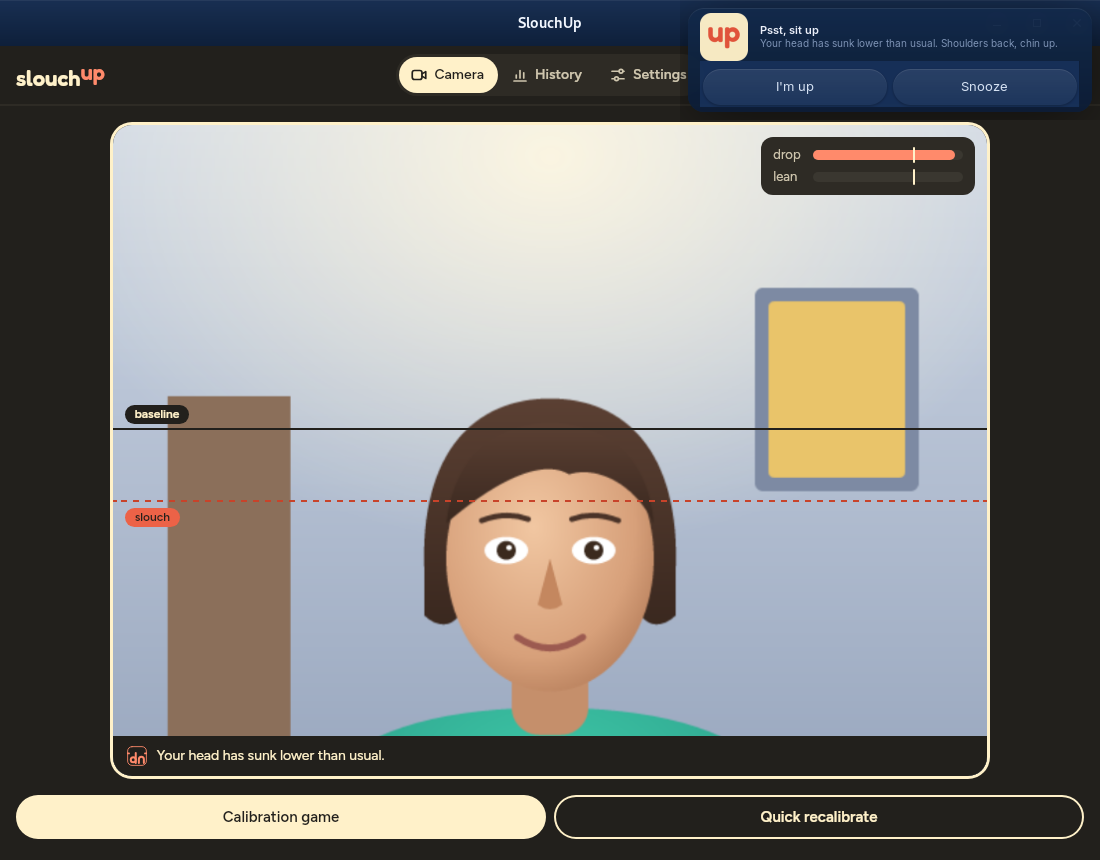
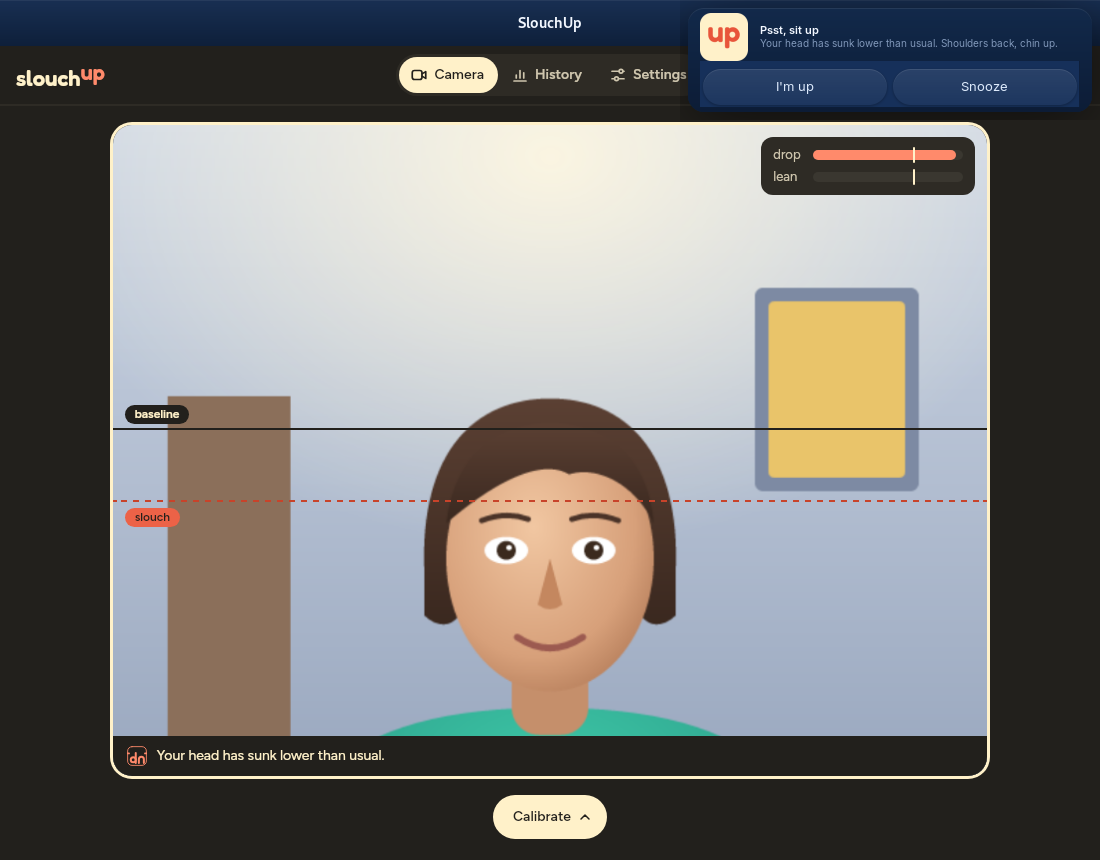
Calibration buttons merged into one Calibrate
Two calibrate buttons took a row under the picture without saying how they differed.

- Calibrate, in a bar under the picture, opens Quick or Guided, full screen, each saying when to use it
- C opens it too; it's hidden while paused, since calibrating needs the camera

Changed region(s): [[0.0, 0.907, 0.5564, 0.9977], [0.68, 0.9372, 0.8036, 0.9674]]

diff --git a/crates/slouch-app/src/style.css b/crates/slouch-app/src/style.css
@@ -108,7 +108,7 @@ button:focus-visible { outline: 3px solid var(--sky); outline-offset: 2px; }
 }
 
 .stage {
-  /* Height the window keeps for its header, its padding, the buttons and the frame's border. */
+  /* Height the window keeps for its header, its padding, the controls and the frame's border. */
   --chrome: calc(var(--header) + 3 * var(--space-4) + 44px + 6px);
   position: relative;
   flex: none;
@@ -197,7 +197,63 @@ button:focus-visible { outline: 3px solid var(--sky); outline-offset: 2px; }
 }
 
 .buttons { display: flex; gap: var(--space-2); }
-.camera-page .button { flex: 1; }
+
+/* The bar of controls under the picture, as video calls have it. */
+.controls { display: flex; flex: none; justify-content: center; align-items: center; gap: var(--space-2); min-height: 44px; }
+.control {
+  display: inline-flex;
+  align-items: center;
+  gap: 6px;
+  min-height: 44px;
+  padding: 0 18px;
+  border: 2px solid var(--track);
+  border-radius: var(--radius-pill);
+  background: var(--surface-raised);
+  color: var(--text);
+  font: 600 14px/1 var(--font-body);
+  cursor: pointer;
+}
+.control:hover { border-color: var(--text-muted); }
+.control.primary { border-color: var(--butter); background: var(--butter); color: var(--ink); }
+.control.primary:hover { border-color: var(--text-muted); background: var(--text-muted); }
+.control .icon, .control .icon svg { width: 16px; height: 16px; }
+.caret, .caret svg { color: var(--text-muted); }
+.backdrop { position: fixed; inset: 0; z-index: 10; }
+
+/* Calibrate, opening a choice of how. */
+.calibrate { position: relative; }
+.calibrate-button { padding-right: 12px; }
+.calibrate-button .caret, .calibrate-button .caret svg { color: inherit; }
+.calibrate-menu {
+  position: absolute;
+  right: 0;
+  bottom: calc(100% + var(--space-2));
+  z-index: 11;
+  display: flex;
+  flex-direction: column;
+  gap: var(--space-1);
+  width: 300px;
+  padding: var(--space-2);
+  border: 2px solid var(--track);
+  border-radius: var(--radius-md);
+  background: var(--surface-raised);
+  box-shadow: 0 12px 32px rgb(0 0 0 / 0.45);
+}
+.calibrate-option {
+  display: flex;
+  flex-direction: column;
+  gap: 2px;
+  padding: 10px 12px;
+  border: 0;
+  border-radius: var(--radius-sm);
+  background: transparent;
+  color: var(--text);
+  text-align: left;
+  cursor: pointer;
+}
+.calibrate-option:hover, .calibrate-option:focus-visible { background: var(--track); }
+.calibrate-name { font: 600 15px/1.3 var(--font-body); }
+.calibrate-detail { font-size: 13px; line-height: 1.4; color: var(--text-muted); }
 
 @media (max-width: 600px) {
   .view-label { display: none; }

diff --git a/crates/slouch-app/src/ui.rs b/crates/slouch-app/src/ui.rs
@@ -329,6 +329,37 @@ fn panel_theme() -> Theme {
 /// How often to check whether the panel has changed theme, say for night mode.
 const PANEL_CHECK: Duration = Duration::from_secs(2);
 
+/// The window's keyboard shortcut: C opens the Calibrate choice. Sent on as a name, and left
+/// alone while typing or with a modifier, so it doesn't take over other keys.
+const SHORTCUTS: &str = r#"
+document.addEventListener("keydown", (event) => {
+    if (event.ctrlKey || event.metaKey || event.altKey || event.repeat) return;
+    if (event.target.closest("input, select, textarea")) return;
+    if (event.key.toLowerCase() === "c") {
+        event.preventDefault();
+        dioxus.send("calibrate");
+    }
+});
+await new Promise(() => {});
+"#;
+
+/// Move focus between the elements matching `selector` for an arrow, Home or End `key`, as a
+/// list does, and say whether it was one of those.
+fn move_focus(selector: &str, key: &Key) -> bool {
+    let step = match key {
+        Key::ArrowDown | Key::ArrowRight => "(i + 1) % all.length",
+        Key::ArrowUp | Key::ArrowLeft => "(i - 1 + all.length) % all.length",
+        Key::Home => "0",
+        Key::End => "all.length - 1",
+        _ => return false,
+    };
+    document::eval(&format!(
+        "const all = [...document.querySelectorAll('{selector}')]; \
+         const i = all.indexOf(document.activeElement); all[{step}]?.focus();"
+    ));
+    true
+}
+
 /// `say`, but only the first time it's called, so a notice comes once a run.
 fn once(say: impl Fn() + 'static) -> std::rc::Rc<dyn Fn()> {
     let said = std::cell::Cell::new(false);
@@ -396,6 +427,16 @@ pub fn App() -> Element {
         }
     });
     let mut page = use_signal(|| bridge.start_on);
+    let mut calibrate_open = use_signal(|| false);
+    use_future(move || async move {
+        let mut keys = document::eval(SHORTCUTS);
+        while let Ok(key) = keys.recv::<String>().await {
+            if key == "calibrate" && !paused() {
+                page.set(Page::Camera);
+                calibrate_open.set(true);
+            }
+        }
+    });
     let open_page = use_callback(move |to: Page| {
         page.set(to);
         show_main_window();
@@ -613,7 +654,7 @@ pub fn App() -> Element {
             }
             main { class: "view",
                 match shown {
-                    Page::Camera => rsx! { CameraPage { current: view(), start_game } },
+                    Page::Camera => rsx! { CameraPage { current: view(), paused: paused(), start_game, calibrate_open } },
                     Page::History => rsx! { HistoryPage {} },
                     Page::Settings => rsx! { SettingsPage { initial: view.peek().settings } },
                 }
@@ -622,9 +663,15 @@ pub fn App() -> Element {
     }
 }
 
-/// The live picture with its lines and readings, and the ways to calibrate.
+/// The live picture with its lines and readings, and a bar under it, as video calls have, with
+/// Calibrate.
 #[component]
-fn CameraPage(current: View, start_game: Callback<()>) -> Element {
+fn CameraPage(
+    current: View,
+    paused: bool,
+    start_game: Callback<()>,
+    calibrate_open: Signal<bool>,
+) -> Element {
     let bridge = use_context::<Bridge>();
     let (frame_width, frame_height) = current.frame_size;
     let down = |y: f32| y / frame_height * 100.0;
@@ -655,13 +702,96 @@ fn CameraPage(current: View, start_game: Callback<()>) -> Element {
                     }
                 }
             }
-            div { class: "buttons",
-                button { class: "button primary", onclick: move |_| start_game(()), "Calibration game" }
-                button { class: "button", onclick: move |_| bridge.send(Command::Recalibrate), "Quick recalibrate" }
+            div { class: "controls",
+                if !paused {
+                    CalibrateMenu {
+                        open: calibrate_open,
+                        on_quick: move |()| bridge.send(Command::Recalibrate),
+                        on_guided: start_game,
+                    }
+                }
             }
         }
     }
 }
+
+/// One Calibrate button, opening the choice between a quick one and the guided, full-screen one.
+#[component]
+fn CalibrateMenu(open: Signal<bool>, on_quick: Callback<()>, on_guided: Callback<()>) -> Element {
+    let mut button = use_signal(|| None::<std::rc::Rc<MountedData>>);
+    let mut close = move || {
+        open.set(false);
+        if let Some(button) = button() {
+            spawn(async move {
+                let _ = button.set_focus(true).await;
+            });
+        }
+    };
+    let choices = [
+        (
+            "Quick",
+            "Sit nicely for 3 seconds. Handy after you move your laptop or chair.",
+            on_quick,
+        ),
+        (
+            "Guided, full screen",
+            "Step by step, about 30 seconds. Best the first time, or at a new desk.",
+            on_guided,
+        ),
+    ];
+    rsx! {
+        div { class: "calibrate",
+            button {
+                class: "control primary calibrate-button",
+                title: "Calibrate (C)",
+                "aria-haspopup": "menu",
+                "aria-expanded": "{open()}",
+                onmounted: move |event| button.set(Some(event.data())),
+                onclick: move |_| open.toggle(),
+                "Calibrate"
+                span { class: "icon caret", dangerous_inner_html: CARET_UP }
+            }
+            if open() {
+                div { class: "backdrop", onclick: move |_| close() }
+                div {
+                    class: "calibrate-menu",
+                    role: "menu",
+                    "aria-label": "Calibrate",
+                    onkeydown: move |event| match event.key() {
+                        Key::Escape => {
+                            event.prevent_default();
+                            close();
+                        }
+                        key => {
+                            if move_focus(".calibrate-option", &key) {
+                                event.prevent_default();
+                            }
+                        }
+                    },
+                    for (index, (name, detail, choose)) in choices.into_iter().enumerate() {
+                        button {
+                            class: "calibrate-option",
+                            role: "menuitem",
+                            onmounted: move |event| async move {
+                                if index == 0 {
+                                    let _ = event.data().set_focus(true).await;
+                                }
+                            },
+                            onclick: move |_| {
+                                close();
+                                choose(());
+                            },
+                            span { class: "calibrate-name", "{name}" }
+                            span { class: "calibrate-detail", "{detail}" }
+                        }
+                    }
+                }
+            }
+        }
+    }
+}
+
+const CARET_UP: &str = r#"<svg viewBox="0 0 24 24" fill="none" stroke="currentColor" stroke-width="2.25" stroke-linecap="round" stroke-linejoin="round"><path d="m6 15 6-6 6 6"/></svg>"#;
 
 /// The tray's up/dn mark for `mood`, inline, in the colour of the text around them.
 #[component]

diff --git a/README.md b/README.md
@@ -23,7 +23,8 @@ status and has:
 
 - **Show camera** — SlouchUp's window, on your camera with the baseline and slouch lines, and how
   close each measure is to its limit. Its header switches between the Camera, History and Settings
-  views.
+  views. Calibrate, under the picture, offers a quick calibration or the guided, full-screen one,
+  as does the C key.
 - **Calibration game** — full-screen prompts walk you through sitting up while looking at each of
   your screens, slouching, and leaning in, then set the limits halfway between.
 - **Recalibrate** — three seconds of sitting nicely sets a new baseline.
